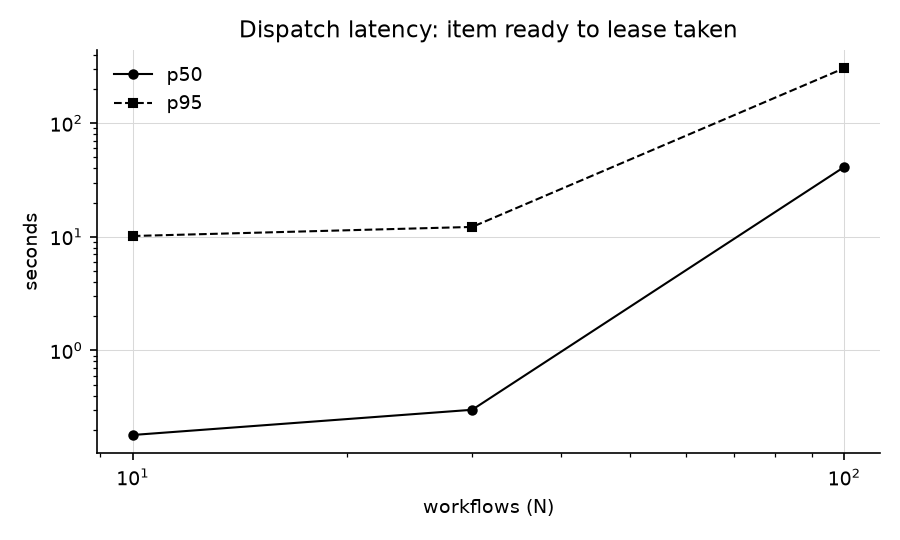
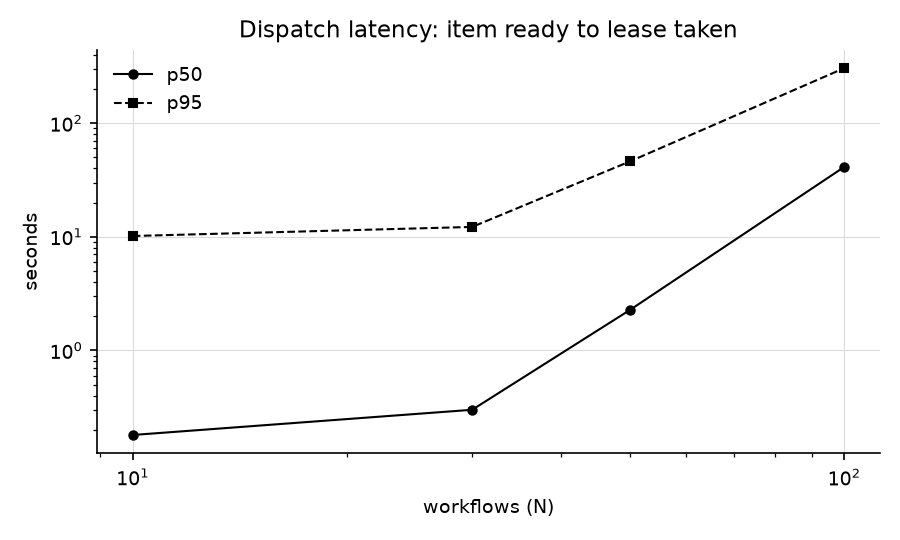
Scale: the page at N = 100 (in turn and each answer alone), check's parts at 300 and 1,000, modelling at 100; charts redrawn

diff --git a/scripts/scale_bench.py b/scripts/scale_bench.py
@@ -483,13 +483,31 @@ ROUTED = ("() => typeof S !== 'undefined' && S.layout && S.graphSig && !S.layout
           "document.querySelectorAll('svg.canvas g.node').length > 0")
 
 
+def cmd_api_alone(a) -> None:
+    """Each API asked of a server of its own, started for it: nothing else computing meanwhile (cmd_web asks them in
+    turn of one server, as a page would, and an answer that runs out of time keeps that server busy for the next)."""
+    for n in a.n:
+        for name, path in [x for x in APIS if not a.apis or x[0] in a.apis.split(",")]:
+            port = free_port()
+            t = time.time()
+            proc = serve(a.work, n, port)
+            started = round(time.time() - t, 1)
+            try:
+                t1, size, code = get(f"http://127.0.0.1:{port}/api/{path}", a.timeout)
+                record(a.work, "api-alone", n, api=name, seconds=t1, bytes=size, status=code, server_start_s=started,
+                       server=ps(proc.pid))
+            finally:
+                os.killpg(proc.pid, signal.SIGTERM)
+                proc.wait(30)
+
+
 def cmd_web(a) -> None:
     for n in a.n:
         port = free_port()
         proc = serve(a.work, n, port)
         base = f"http://127.0.0.1:{port}"
         try:
-            for name, path in APIS:
+            for name, path in ([] if a.pages else APIS):
                 t, size, code = get(f"{base}/api/{path}", a.timeout)
                 t2 = get(f"{base}/api/{path}", a.timeout)[0] if code == 200 else None     # again: what a poll costs
                 record(a.work, "api", n, api=name, seconds=t, again_s=t2, bytes=size, status=code,
@@ -505,7 +523,7 @@ def browse(a, n: int, base: str, proc) -> None:
     from playwright.sync_api import sync_playwright
     with sync_playwright() as p:
         b = p.chromium.launch(channel="chrome")
-        for name, path, diagram in PAGES:
+        for name, path, diagram in [x for x in PAGES if not a.pages or x[0] in a.pages.split(",")]:
             ctx = b.new_context(viewport={"width": 1600, "height": 1000})
             pg = ctx.new_page()
             sizes: list[int] = []
@@ -587,7 +605,7 @@ def cmd_chart(a) -> None:
         """Per N, the measurement taken at the lowest load (a repeat when quieter wins)."""
         got: dict[int, tuple[float, float]] = {}
         for r in rs:
-            if r["measure"] == measure and not r.get("variant") and where(r):
+            if r["measure"] in measure.split("|") and not r.get("variant") and where(r):
                 v = key(r)
                 if v is None:
                     continue
@@ -642,11 +660,11 @@ def cmd_chart(a) -> None:
     chart("dispatch", "Dispatch latency: item ready to lease taken", "seconds", {
         "p50": best("engine", lambda r: r.get("dispatch_p50_s")), "p95": best("engine", lambda r: r.get("dispatch_p95_s"))})
     chart("storage", "Storage growth", "MB per hour", {"state directory": best("engine", lambda r: r.get("state_mb_per_h"))})
-    chart("api", "API answer time", "seconds", {
-        k: best("api", lambda r: r.get("seconds") if r.get("status") == 200 else None, lambda r, k=k: r.get("api") == k)
+    chart("api", "API answer time (first answer)", "seconds", {
+        k: best("api|api-alone", lambda r: r.get("seconds") if r.get("status") == 200 else None, lambda r, k=k: r.get("api") == k)
         for k in ("status", "graph-dynamics", "graph-blocks", "graph-system", "loops", "items")})
     chart("api-size", "API answer size", "MB", {
-        k: best("api", lambda r: (r.get("bytes") or 0) / 2**20 or None, lambda r, k=k: r.get("api") == k)
+        k: best("api|api-alone", lambda r: (r.get("bytes") or 0) / 2**20 or None, lambda r, k=k: r.get("api") == k)
         for k in ("status", "graph-dynamics", "graph-blocks", "loops", "items")})
     chart("pages", "Pages: until drawn", "seconds", {
         k: best("page", lambda r: r.get("drawn_s"), lambda r, k=k: r.get("page") == k)
@@ -659,7 +677,7 @@ def cmd_chart(a) -> None:
 
 def main() -> None:
     ap = argparse.ArgumentParser(description=__doc__.split("\n\n")[0])
-    ap.add_argument("what", choices=["check", "phases", "tick", "loops", "engine", "web", "model", "chart"])
+    ap.add_argument("what", choices=["check", "phases", "tick", "loops", "engine", "web", "api", "model", "chart"])
     ap.add_argument("n", type=int, nargs="*")
     ap.add_argument("--work", type=Path, default=Path("/tmp/scale"))
     ap.add_argument("--fresh", action="store_true", help="generate the models again")
@@ -670,11 +688,14 @@ def main() -> None:
     ap.add_argument("--every", type=float, default=15)
     ap.add_argument("--keep", action="store_true", help="engine: keep the record from the last run")
     ap.add_argument("--no-browser", action="store_true")
+    ap.add_argument("--apis", help="api: only these answers (graph-dynamics,status,...)")
+    ap.add_argument("--pages", help="web: only these pages (diagram,diagram-system,...), on a fresh server, no API timings")
     ap.add_argument("--only", help="model: only these steps (fit,proposals,judge,measure-fit,try-change)")
     ap.add_argument("--variant", help="loops: the model in WORK/VARIANT (scale_model.py --handoff ...) instead of WORK/n<N>")
     a = ap.parse_args()
     a.work.mkdir(parents=True, exist_ok=True)
     {"check": cmd_check, "phases": cmd_phases, "tick": cmd_tick, "loops": cmd_loops, "engine": cmd_engine, "web": cmd_web,
+     "api": cmd_api_alone,
      "model": cmd_model, "chart": cmd_chart}[a.what](a)
 
 

diff --git a/docs/proposals/scale.md b/docs/proposals/scale.md
@@ -14,8 +14,8 @@ agents), and at 6,000 use cases with 120,000 stocks and 400,000 flows?
 
 - **The engine breaks first, at N ≈ 50 workflows** (about 300 stocks and 550 flows; well short of the
   owner's "100 tasks"). At N = 30 it keeps up on 45% of one core; at N = 50 it is on a full core, reads 65%
-  of what its sensors declare, and an item waits up to 46 s (p95) to be taken. At N = 100 it reads 6% of the readings its
-  sensors declare, an item waits 41 s (median) to 5 minutes (p95) to be taken, and 683 threads queue on
+  of what its sensors declare, and an item waits up to 46 s (p95) to be taken. At N = 100 it reads 6% of
+  the readings its sensors declare, an item waits 41 s (median) to 5 minutes (p95) to be taken, and 683 threads queue on
   one lock. At N = 300 it does no work at all after its first 40 seconds; at N = 1,000 it spends 6 minutes
   loading the model and then manages 5 passes and no runs in the 4 minutes left.
 - **The cause is one design choice**: after every sensor reading, the engine re-evaluates the whole model
@@ -68,12 +68,14 @@ block, and `ERGOSTAT_AI=false`.
 | 1,000 | 5,860 | 10,306 | 624 | 16,790 | 4,678 | 9,911 | 155 | 531 | 3.1 MB |
 | 3,000 | 17,562 | 30,949 | 1,831 | 50,342 | 13,862 | 29,350 | 454 | 1,623 | 9.1 MB |
 
-(The owner's model today, 20 stocks and 31 flows, is about N = 4; `examples/the-job` is about N = 8.
+(The owner's model today, 20 stocks and 31 flows, is about N = 4; `examples/the-job` is about N = 8. The
+agents grow faster than the owner guessed, about 155 at N = 1,000 rather than 80, because each system here
+has a pool and a lead of its own.
 120,000 stocks is about N = 20,000 of these workflows; 400,000 flows about N = 39,000, since the owner's
 models have more flows per stock than these.)
 
-**The machine** is a 28-core Mac with 256 GB, shared with other agents' work: the load average was 17 to
-29 throughout and never fell, so no measurement could be repeated on a quiet machine. Every row in the
+**The machine** is a 28-core Mac with 256 GB, shared with other agents' work: the load average was 12 to
+29 throughout and never fell lower, so no measurement could be repeated on a quiet machine. Every row in the
 results carries its load. The engine and the web server use one core each (Python's GIL), so a load of 20
 on 28 cores slows them less than it seems; the single-threaded timings (the tick benchmark) were repeated
 an hour apart at N = 30, 100 and 300 and moved by under 4%.
@@ -87,14 +89,14 @@ an hour apart at N = 30, 100 and 300 and moved by under 4%.
 | 10 | 12.7 s | 32 MB | 0.09 s | 0.01 s | 0.03 s | 13 s (95 conditions) |
 | 30 | 131 s | 39 MB | 0.12 s | 0.01 s | | |
 | 100 | 3,230 s (54 min) | 64 MB | 0.42 s | 0.04 s | 2.4 s | ~2,170 s estimated (783 conditions × 2.8 s) |
-| 300 | | | PHASES300 |
-| 1,000 | not run (est. ~9 days) | | 3.7 s | 0.5 s | | |
+| 300 | not run (est. ~1 day) | | 1.1 s | 0.11 s | 21 s | ~57,000 s estimated (2,287 conditions × 25 s) |
+| 1,000 | not run (est. ~4 weeks) | | 3.6 s | 0.46 s | 254 s | ~2.4 million s estimated (7,757 conditions × 309 s) |
 
 Loading the model (what every command, the web server and the engine do first; `model.load`, which skips
 the extreme-conditions tests): 0.16 s at 10, 0.5 s at 30, 3.8 s at 100, 32 s at 300, **381 s at 1,000**,
 and more than 17 minutes at 3,000 (the loop measurement there ran out of time while loading).
 
-- **The bend**: reading and compiling the YAML is linear (3.7 s at N = 1,000). Everything after it is
+- **The bend**: reading and compiling the YAML is linear (4 s at N = 1,000). Everything after it is
   not. Loading goes as N^2.0, `check` as N^2.4.
 - **Where**: `check` is almost all the extreme-conditions tests (`numbers/extremes.py: failures`): one
   whole-model replay per condition (`numbers/simulate.py: replay`, after `sim.plan`), and the conditions
@@ -207,26 +209,31 @@ at N = 30). Storage is not what breaks first.
 The page server on each engine's record (`ergostat web`), API answers timed twice (the second is what a
 poll costs), then each page in Chrome (Playwright), timed until drawn and until its lines are routed.
 
-| API (N = 10 / 30 / 100) | first answer | again | size |
+At N = 100 the page server was asked two ways: in turn, as a page would (`web`), and each answer alone from
+a server started for it (`api`). In turn, every graph answer after the first ran past five minutes, because
+the answers before it, given up by the client, were still being computed (a request is never cancelled).
+
+| API (N = 10 / 30 / 100 / 300 / 1,000) | first answer | again | size |
 |---|---:|---:|---:|
-| `status` | 13 s / **148 s** / WEB100 | 0.1 s / 0.2 s | 34 KB / 123 KB |
-| `graph` (the Diagram page, everything) | 1.1 s / 19 s | 1.0 s / 13 s | 0.76 MB / 1.0 MB |
-| `graph?view=dynamics&system=sys-001` | 2.7 s / 14 s | 1.2 s / 6.5 s | 1.1 MB / 1.5 MB |
-| `graph?view=dynamics&open=org,area-01,sys-001` | 1.7 s / 7.1 s | 1.8 s / 6.6 s | 1.2 MB / 1.7 MB |
-| `graph?view=dynamics&open=*` | – / 6.7 s | – / 7.1 s | – / 2.5 MB |
-| `graph?view=blocks` | 2.2 s / **51 s** | 2.3 s / 58 s | 76 KB / 243 KB |
-| `loops` | 0.11 s / 0.35 s | 0.07 s / 0.002 s | 31 KB / 117 KB |
-| `items` | 0.5 s / 0.19 s | 0.4 s / 0.04 s | 14 KB / 67 KB |
+| `status` | 13 s / **148 s** / ~54 min (stopped; it runs `check`'s 54-minute tests) | 0.1 s / 0.2 s | 34 KB / 123 KB |
+| `graph` (the Diagram page, everything) | 1.1 s / 19 s / > 300 s (in turn) | 1.0 s / 13 s | 0.76 MB / 1.0 MB |
+| `graph?view=dynamics` | 1.2 s / 14 s / 74 s (alone) / API300D | 1.1 s / 12 s | 0.76 MB / 1.0 MB / 1.7 MB |
+| `graph?view=dynamics&system=sys-001` | 2.7 s / 14 s / 151 s (alone) / API300S / API1000S | 1.2 s / 6.5 s | 1.1 MB / 1.5 MB / 1.6 MB |
+| `graph?view=dynamics&open=org,area-01,sys-001` | 1.7 s / 7.1 s / > 300 s (in turn) | 1.8 s / 6.6 s | 1.2 MB / 1.7 MB |
+| `graph?view=dynamics&open=*` | – / 6.7 s / > 300 s (in turn) | – / 7.1 s | – / 2.5 MB |
+| `graph?view=blocks` | 2.2 s / **51 s** / **> 1,500 s** (alone) | 2.3 s / 58 s | 76 KB / 243 KB |
+| `loops` | 0.11 s / 0.35 s / 1.7 s / API300L / API1000L | 0.07 s / 0.002 s | 31 KB / 117 KB / 305 KB |
+| `items` | 0.5 s / 0.19 s / 0.005 s / API300I / API1000I | 0.4 s / 0.04 s | 14 KB / 67 KB / 106 KB |
 
 | Page (N = 10 / 30 / 100) | drawn | lines routed | shapes | API bytes while it drew |
 |---|---:|---:|---:|---:|
-| Diagram, everything (folded to its top systems) | 1.3 s / 6.3 s | same | 2 | 0.8 MB / 1.2 MB |
-| Diagram, one system (`system=sys-001`) | 12 s / 24 s | 50 s / **190 s** | 173 / 280 | 9 MB / **22 MB** |
-| Diagram, one system opened in place | 14 s / 28 s | 36 s / 160 s | 175 / 285 | 5 MB / 18 MB |
-| Diagram, everything open (`open=*`) | – / 139 s | not done in 30 min | | – / **456 MB** in 32 min |
-| Blocks | 2.4 s / 58 s | | 2 | 0.1 MB / 0.4 MB |
-| Loops | 1.8 s / 12 s | | | 1.4 MB / 4.1 MB |
-| Items | 0.7 s / 1.0 s | | | 0.1 MB / 0.3 MB |
+| Diagram, everything (folded to its top systems) | 1.3 s / 6.3 s / **400 s** | same | 2 | 0.8 MB / 1.2 MB / 1.7 MB |
+| Diagram, one system (`system=sys-001`) | 12 s / 24 s / **not in 10 min** | 50 s / **190 s** / – | 173 / 280 / – | 9 MB / **22 MB** / – |
+| Diagram, one system opened in place | 14 s / 28 s / – | 36 s / 160 s | 175 / 285 | 5 MB / 18 MB |
+| Diagram, everything open (`open=*`) | – / 139 s / – | not done in 30 min | | – / **456 MB** in 32 min |
+| Blocks | 2.4 s / 58 s / – | | 2 | 0.1 MB / 0.4 MB |
+| Loops | 1.8 s / 12 s / not in 10 min | | | 1.4 MB / 4.1 MB |
+| Items | 0.7 s / 1.0 s / 129 s (behind the diagram's requests) | | | 0.1 MB / 0.3 MB |
 | Check | 0.6 s / 0.7 s (its status already computed) | | | 0.07 MB / 0.4 MB |
 
 For comparison, `examples/the-job` (43 stocks, 61 flows) and `examples/image-squeeze` (42, 48) answer
@@ -253,7 +260,7 @@ draw and 50 s to route one system.
 |---:|---:|---:|---:|---:|---:|
 | 10 | 0.4 s | **178 s** | 29 s | 0.2 s | 0.4 s |
 | 30 | 1.3 s | **926 s** | 281 s | 0.6 s | 1.8 s |
-| 100 | MODEL100 |
+| 100 | 12.7 s | > 1 hour (stopped) | > 1 hour (stopped) | 3.9 s | no value: the stalled engine recorded too little |
 
 - **The bend** is already at N = 10. Calibration (`numbers/estimate.py: estimate`) runs a Nelder-Mead
   search per scope, each cost evaluation a whole-model replay (`simulate.py: replay`): 1,483 replays at
@@ -309,7 +316,7 @@ exponents measured between N = 300 and N = 1,000:
 |---|---:|---|---:|---|
 | Read and compile the YAML | 4.2 s | N | 1.5 to 3 min | yes |
 | Load the model (findings, `to_model`) | 381 s | N^2.0 | 2 to 7 days | no; yes with #6 (minutes) |
-| `ergostat check` (extreme conditions) | ~9 days (projected) | N^2.4 | decades to a century | no (#9 is a design change) |
+| `ergostat check` (extreme conditions) | ~4 weeks (projected) | N^2.4 | a century or more | no (#9 is a design change) |
 | Causal links and the capped loop search | 81 s | N^2.1 | 9 to 34 hours | no; with #6 and one reverse map, minutes |
 | Every simple cycle (30 parts) | 33,325 in 133 s | count N, time N^2.4 | 0.7 to 1.3 million loops | the count is fine; showing 300 of a million is not an answer |
 | Engine pass after a reading | 8.7 s | N^2.0 | 1 to 4 hours a pass | no |
